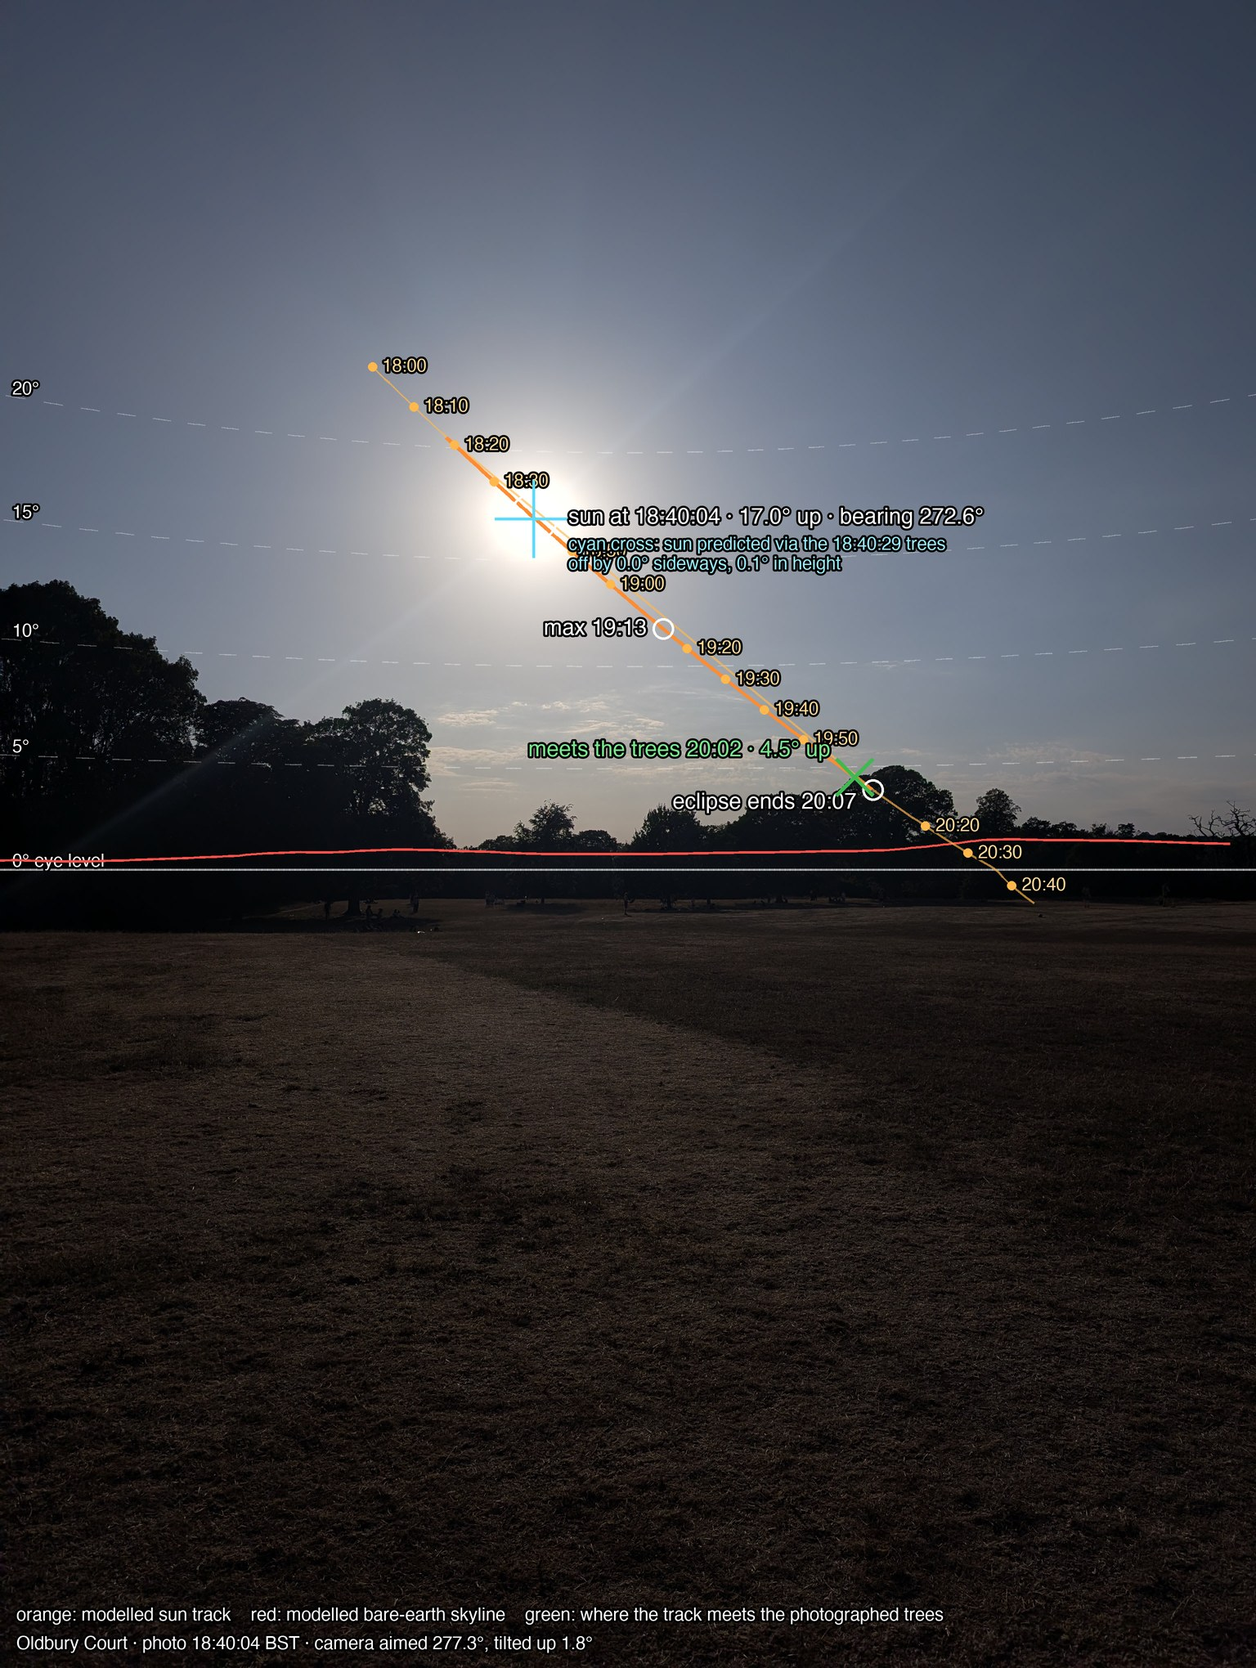
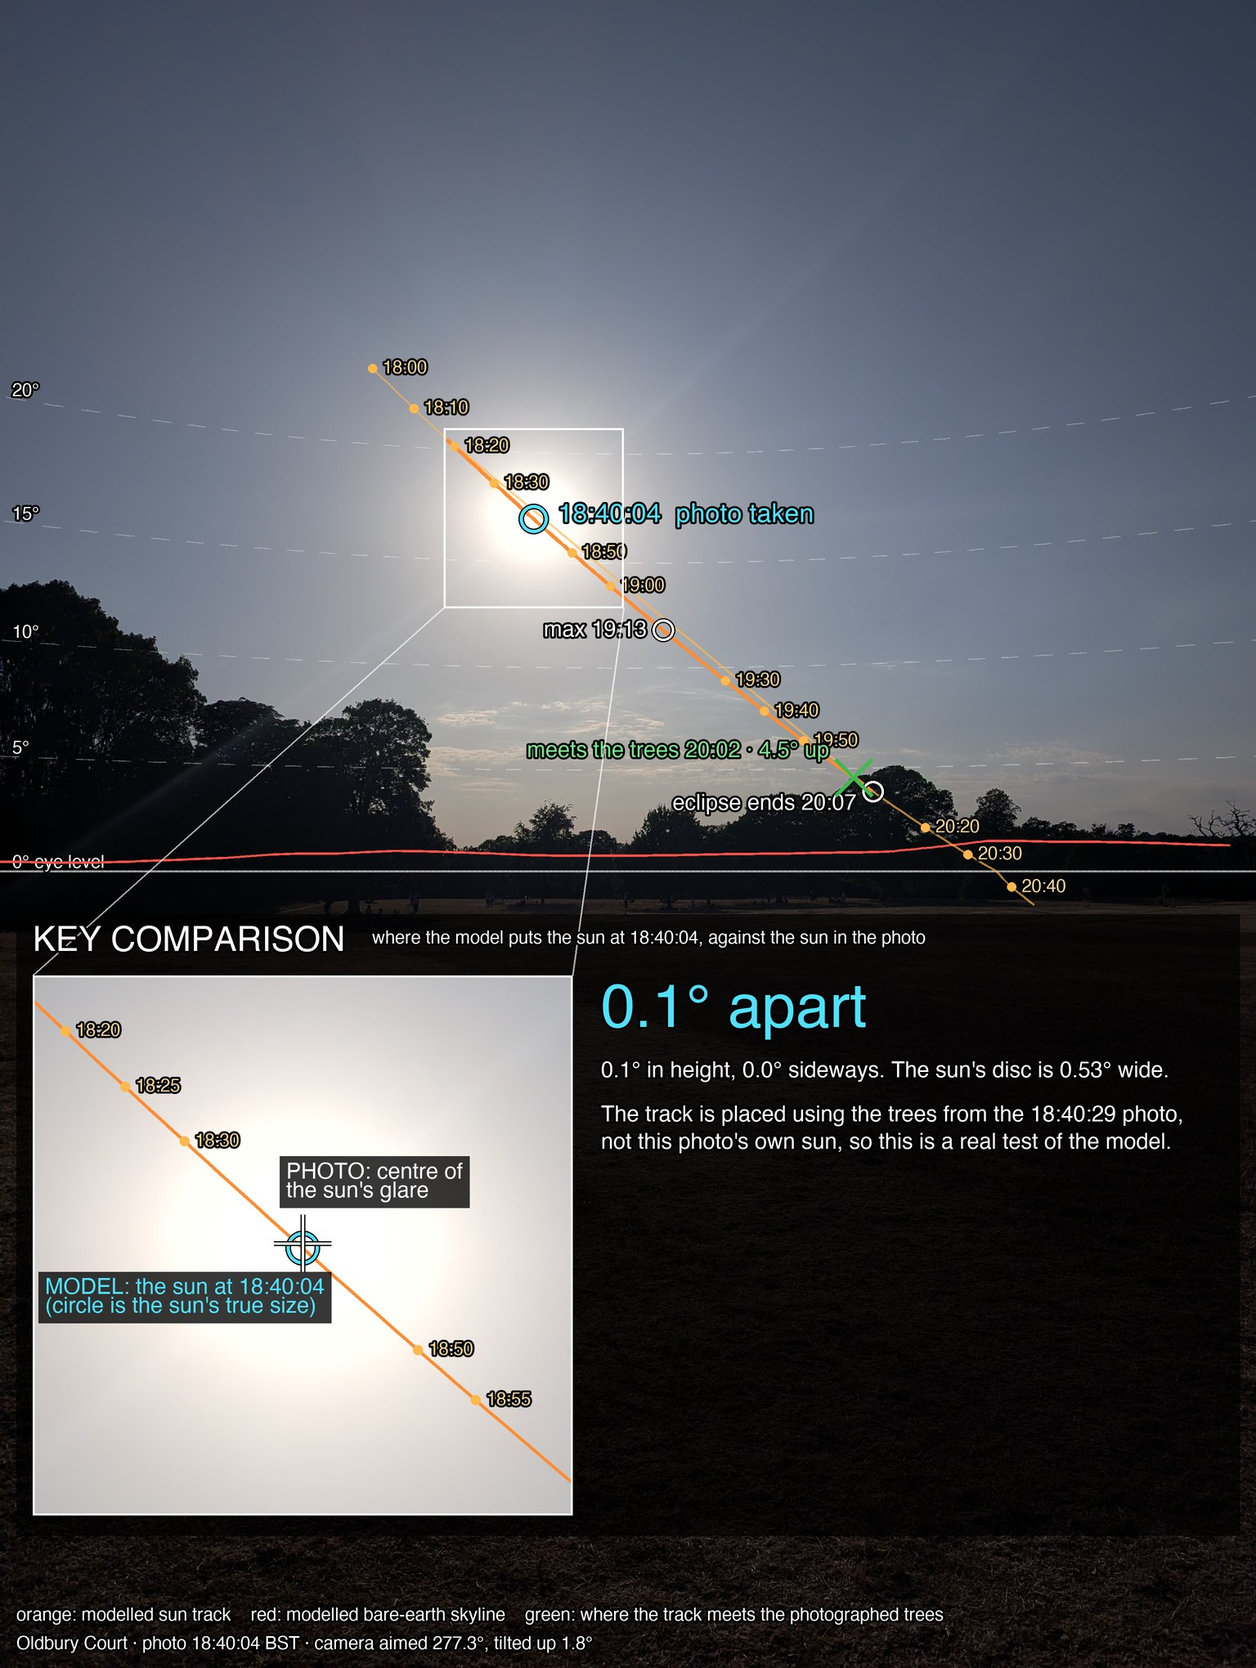
Make model-vs-photo sun position the key comparison in the overlays
Each overlay now marks the photo's time on the track and adds an
enlarged panel showing the model's sun against the sun's glare, with
the gap in degrees. The 18:40:29 photo is the anchor; the other two
are placed by its tree line so their comparison is a real test.
README "On the day" section rewritten to match.

Changed region(s): [[0.0, 0.2162, 1.0, 0.9265], [0.9375, 0.5559, 0.9688, 0.5868], [0.0, 0.2162, 0.0312, 0.2471]]

diff --git a/eclipse-oc/overlay.py b/eclipse-oc/overlay.py
@@ -1,14 +1,14 @@
-"""Draw the model's sun track and terrain skyline over photos taken on the day.
+"""Compare the model's sun position with photos taken on the day.
 
-The camera's direction is not recorded, so each photo is oriented by pinning the
-sun's image to its computed altitude/azimuth at the EXIF timestamp. Everything
-else drawn (altitude lines, sun track, terrain skyline) follows from that.
+The key comparison: mark on the modelled sun track the moment each photo was
+taken, and see how far that is from the sun in the photo.
 
-Pinning makes the sun line up by construction, so the independent check is between
-photos: the 18:40:29 shot is the reference, and the tree line it records is used to
-orient the other shots. Where the model then puts the sun is compared with the glare.
+The camera's direction is not recorded, so one photo has to act as the anchor:
+the 18:40:29 shot is oriented by fitting the model's sun to its glare. The tree
+line it records then orients the other photos, so in those the track is placed
+without reference to their own sun and the comparison is a real test.
 """
-import json, math, os, sys
+import json, math, os
 from datetime import datetime, timedelta
 import numpy as np
 from PIL import Image, ImageDraw, ImageFont, ExifTags
@@ -18,19 +18,22 @@ HERE = os.path.dirname(os.path.abspath(__file__))
 PHOTOS = os.path.join(HERE, '..', 'photos')
 OUT = os.path.join(PHOTOS, 'overlays')
 # roll = camera tilt in degrees (clockwise positive), judged from the far edge of the field
-# moved = taken from a different spot to the reference photo, so nearby trees shift sideways
+# moved = taken from a different spot to the anchor photo, so nearby trees shift sideways
 SHOTS = [('PXL_20260812_174004617.jpg', 'oldbury-court-1840a', 0.0, False),
          ('13b15408-4078-4d34-a309-7ae669ac0c85-1_all_39226.jpg', 'oldbury-court-1840b', 0.0, False),
          ('13b15408-4078-4d34-a309-7ae669ac0c85-1_all_39227.jpg', 'oldbury-court-1900', 0.0, True)]
+ANCHOR = 'oldbury-court-1840b'
 
 DATA = json.load(open(os.path.join(HERE, 'analysis.json')))
 HOR = DATA['hor']
 C1 = datetime(2026,8,12,18,17,6,tzinfo=BST)
 MX = datetime(2026,8,12,19,13,45,tzinfo=BST)
 C4 = datetime(2026,8,12,20,7,18,tzinfo=BST)
+END = datetime(2026,8,12,20,45,tzinfo=BST)
 D2R = math.pi/180
+SUN_DIAM = 0.53                                  # degrees
 FONT = '/System/Library/Fonts/Helvetica.ttc'
-REF = 'oldbury-court-1840b'
+WHITE, CYAN, ORANGE, GREEN, RED = (255,255,255,255), (80,225,255,255), (255,140,50,255), (63,185,80,255), (248,81,73,255)
 
 class Camera:
     """Pinhole camera, principal point at the image centre, oriented by yaw/pitch/roll."""
@@ -51,6 +54,7 @@ class Camera:
         self.pitch = math.asin(n*math.sin(alt*D2R)/math.hypot(Y, 1)) - math.atan2(Y, 1)
         fwd = math.cos(self.pitch) - Y*math.sin(self.pitch)
         self.yaw = az*D2R - math.atan2(X, fwd)
+        return self
 
     def project(self, alt, az):
         a, d = alt*D2R, az*D2R - self.yaw
@@ -127,14 +131,14 @@ def prepare(fname, roll):
     lum = np.asarray(im.convert('L')).astype(float)
     sx, sy = find_sun(lum)
     alt0, az0, _ = sun_altaz(t0)
-    cam = Camera(w, h, f35, roll); cam.pin(sx, sy, alt0, az0)
+    cam = Camera(w, h, f35, roll).pin(sx, sy, alt0, az0)
     trees = tree_line(lum)
     pts = sorted((cam.unproject(x, trees[x])[::-1] for x in range(0, w, 4) if not np.isnan(trees[x])))
     prof = (np.array([p[0] for p in pts]), np.array([p[1] for p in pts]))
-    return dict(im=im, t0=t0, sun=(sx, sy), alt0=alt0, az0=az0, cam=cam, trees=trees, prof=prof)
+    return dict(im=im, t0=t0, f35=f35, roll=roll, sun=(sx, sy), alt0=alt0, az0=az0, cam=cam, trees=trees, prof=prof)
 
 def align(prof, ref, lo=280, hi=303):
-    """Shift (d_az, d_alt) that best lays this photo's tree line over the reference one.
+    """Shift (d_az, d_alt) that best lays this photo's tree line over the anchor's.
     The range stays right of the sun, clear of the flare."""
     g = np.arange(lo, hi, 0.05); r = np.interp(g, *ref); best = None
     for daz in np.arange(-4, 4.01, 0.05):
@@ -144,88 +148,157 @@ def align(prof, ref, lo=280, hi=303):
         if best is None or score < best[0]: best = (score, daz, dalt)
     return best
 
-def run(outname, shot, check, moved):
-    im, t0, (sx, sy), alt0, az0, cam, trees = (shot[k] for k in ('im','t0','sun','alt0','az0','cam','trees'))
-    w, h = im.size
-
-    # where the sun's centre first meets the photographed tree line
-    met, t = None, t0
-    while t <= datetime(2026,8,12,20,45,tzinfo=BST):
+def meets_trees(cam, trees, t0, w):
+    """First time the sun's centre drops to the photographed tree line."""
+    t = t0
+    while t <= END:
         a, z, _ = sun_altaz(t); p = cam.project(a, z)
         if p and 0 <= p[0] < w and not np.isnan(trees[int(p[0])]) and p[1] >= trees[int(p[0])]:
-            met = (t, a, z, p); break
+            return t, a, z, p
         t += timedelta(seconds=15)
 
+def run(outname, shot, check, moved):
+    im, t0, (sx, sy), alt0, az0, trees = (shot[k] for k in ('im','t0','sun','alt0','az0','trees'))
+    w, h = im.size
+    clean = im.copy()
+    own = meets_trees(shot['cam'], trees, t0, w)                # crossing with the photo oriented on its own sun
+    if check:                                                   # orient by the anchor's trees, not this photo's sun
+        _, daz, dalt = check
+        cam = Camera(w, h, shot['f35'], shot['roll']).pin(sx, sy, alt0 + dalt, az0 + daz)
+    else:
+        daz = dalt = 0.0; cam = shot['cam']
+    mx, my = cam.project(alt0, az0)                             # model sun at the moment of the photo
+    side = daz*math.cos(alt0*D2R); gap = math.hypot(side, dalt)
+    met = meets_trees(cam, trees, t0, w)
+
     d = ImageDraw.Draw(im, 'RGBA')
-    f_s, f_m, f_l = (ImageFont.truetype(FONT, s) for s in (44, 54, 66))
-    def text(xy, s, font, fill, anchor='la'):
-        d.text(xy, s, font=font, fill=fill, anchor=anchor, stroke_width=5, stroke_fill=(0,0,0,210))
-    def polyline(pts, fill, width, dash=None):
+    f_s, f_m, f_l, f_xl = (ImageFont.truetype(FONT, s) for s in (44, 54, 64, 84))
+    def text(dr, xy, s, font, fill, anchor='la'):
+        dr.text(xy, s, font=font, fill=fill, anchor=anchor, stroke_width=5, stroke_fill=(0,0,0,220))
+    def polyline(dr, pts, fill, width, dash=None):
         seg = [p for p in pts if p]
         for i in range(len(seg)-1):
             if dash and (i // dash) % 2: continue
-            d.line([seg[i], seg[i+1]], fill=fill, width=width)
+            dr.line([seg[i], seg[i+1]], fill=fill, width=width)
+    def ring(dr, x, y, r, fill, width):
+        dr.ellipse([x-r-3, y-r-3, x+r+3, y+r+3], outline=(0,0,0,255), width=width+6)
+        dr.ellipse([x-r, y-r, x+r, y+r], outline=fill, width=width)
+    def cross(dr, x, y, r, fill, width):
+        for dx, dy in ((1,0),(0,1)):
+            dr.line([x-dx*r, y-dy*r, x+dx*r, y+dy*r], fill=(0,0,0,255), width=width+6)
+            dr.line([x-dx*r, y-dy*r, x+dx*r, y+dy*r], fill=fill, width=width)
 
+    # --- main picture: altitude lines, modelled terrain, sun track ---
     left, right = cam.unproject(0, h*0.45)[1], cam.unproject(w, h*0.45)[1]
     azs = np.arange(left-3, right+3, 0.25)
-    for alt in (0, 5, 10, 15, 20):                              # altitude lines
-        pts = [cam.project(alt, z) for z in azs]
-        polyline(pts, (255,255,255,150 if alt == 0 else 80), 5 if alt == 0 else 3, dash=None if alt == 0 else 3)
+    for alt in (0, 5, 10, 15, 20):
+        polyline(d, [cam.project(alt, z) for z in azs], (255,255,255,150 if alt == 0 else 80), 5 if alt == 0 else 3,
+                 dash=None if alt == 0 else 3)
         p = cam.project(alt, cam.unproject(30, h*0.45)[1])
-        if p: text((30, p[1]-8), f'{alt}°' + (' eye level' if alt == 0 else ''), f_s, (255,255,255,230), 'ls')
-    polyline([cam.project(hor_at(z), z) for z in azs if hor_at(z) is not None], (248,81,73,255), 6)  # model terrain
+        if p: text(d, (30, p[1]-8), f'{alt}°' + (' eye level' if alt == 0 else ''), f_s, (255,255,255,230), 'ls')
+    polyline(d, [cam.project(hor_at(z), z) for z in azs if hor_at(z) is not None], RED, 6)
 
-    track, t = [], datetime(2026,8,12,18,0,tzinfo=BST)          # sun track
-    while t <= datetime(2026,8,12,20,45,tzinfo=BST):
+    track, t = [], datetime(2026,8,12,18,0,tzinfo=BST)
+    while t <= END:
         a, z, _ = sun_altaz(t); track.append((t, cam.project(a, z))); t += timedelta(minutes=1)
-    polyline([p for t, p in track if not C1 <= t <= C4], (255,184,77,170), 5)
-    polyline([p for t, p in track if C1 <= t <= C4], (255,140,50,255), 9)
+    polyline(d, [p for t, p in track if not C1 <= t <= C4], (255,184,77,170), 5)
+    polyline(d, [p for t, p in track if C1 <= t <= C4], ORANGE, 9)
     for t, p in track:
         near = min(abs((t-e).total_seconds()) for e in [t0, MX, C4] + ([met[0]] if met else []))
-        if p and t.minute % 10 == 0 and 0 < p[0] < w and 0 < p[1] < h and near > 360:
+        if p and t.minute % 10 == 0 and 0 < p[0] < w and 0 < p[1] < h and near > 420:
             d.ellipse([p[0]-11, p[1]-11, p[0]+11, p[1]+11], fill=(255,184,77,255))
-            text((p[0]+24, p[1]), t.strftime('%H:%M'), f_s, (255,214,150,255), 'lm')
+            text(d, (p[0]+24, p[1]), t.strftime('%H:%M'), f_s, (255,214,150,255), 'lm')
     for lab, tt in (('max 19:13', MX), ('eclipse ends 20:07', C4)):
         a, z, _ = sun_altaz(tt); p = cam.project(a, z)
         if p and 0 < p[0] < w and 0 < p[1] < h:
-            d.ellipse([p[0]-26, p[1]-26, p[0]+26, p[1]+26], outline=(255,255,255,255), width=6)
-            text((p[0]-40, p[1]+(30 if tt == C4 else 0)), lab, f_m, (255,255,255,255), 'rm')
-    d.ellipse([sx-60, sy-60, sx+60, sy+60], outline=(255,255,255,255), width=6)
-    if check:                                                   # sun as predicted from the reference photo's trees
-        _, daz, dalt = check
-        px, py = cam.project(alt0 - dalt, az0 - daz)
-        for dx, dy in ((1,0),(0,1)):
-            d.line([px-dx*95, py-dy*95, px+dx*95, py+dy*95], fill=(90,220,255,255), width=7)
-        text((sx+85, sy+45), f'cyan cross: sun predicted via the 18:40:29 trees\noff by {abs(daz):.1f}° sideways' +
-             (' (camera had moved a few metres)' if moved else '') + f', {abs(dalt):.1f}° in height',
-             f_s, (150,235,255,255), 'la')
-    else:
-        text((sx+85, sy+45), 'reference photo: the others are\nchecked against this tree line', f_s, (150,235,255,255), 'la')
-    text((sx+85, sy), f'sun at {t0:%H:%M:%S} · {alt0:.1f}° up · bearing {az0:.1f}°', f_m, (255,255,255,255), 'lm')
+            ring(d, p[0], p[1], 26, WHITE, 6)
+            text(d, (p[0]-40, p[1]+(30 if tt == C4 else 0)), lab, f_m, WHITE, 'rm')
     if met:
         t, a, z, p = met
-        d.line([p[0]-45, p[1]-45, p[0]+45, p[1]+45], fill=(63,185,80,255), width=9)
-        d.line([p[0]-45, p[1]+45, p[0]+45, p[1]-45], fill=(63,185,80,255), width=9)
-        text((p[0]-60, p[1]-40), f'meets the trees {t:%H:%M} · {a:.1f}° up', f_m, (120,230,140,255), 'rb')
-    text((40, h-150), 'orange: modelled sun track    red: modelled bare-earth skyline    green: where the track meets the photographed trees',
+        d.line([p[0]-45, p[1]-45, p[0]+45, p[1]+45], fill=GREEN, width=9)
+        d.line([p[0]-45, p[1]+45, p[0]+45, p[1]-45], fill=GREEN, width=9)
+        text(d, (p[0]-60, p[1]-40), f'meets the trees {t:%H:%M} · {a:.1f}° up', f_m, (120,230,140,255), 'rb')
+
+    # --- the key comparison, marked on the track and enlarged below ---
+    ring(d, mx, my, 34, CYAN, 8)
+    text(d, (mx+60, my-10), f'{t0:%H:%M:%S}  photo taken', f_l, CYAN, 'lm')
+    M, crop, side_px = 3, 440, 1320                             # 3x enlargement, about 9° across
+    cx0, cy0 = (mx+sx)/2 - crop/2, (my+sy)/2 - crop/2
+    px0, py0 = 80, int(h*0.585)
+    d.rectangle([40, py0-150, w-40, py0+side_px+50], fill=(0,0,0,175))
+    d.rectangle([cx0, cy0, cx0+crop, cy0+crop], outline=WHITE, width=5)
+    d.line([cx0, cy0+crop, px0, py0], fill=(255,255,255,170), width=4)
+    d.line([cx0+crop, cy0+crop, px0+side_px, py0], fill=(255,255,255,170), width=4)
+    text(d, (px0, py0-125), 'KEY COMPARISON', f_xl, WHITE)
+    text(d, (px0+830, py0-112), f'where the model puts the sun at {t0:%H:%M:%S}, against the sun in the photo', f_s, WHITE)
+
+    inset = clean.crop((int(cx0), int(cy0), int(cx0)+crop, int(cy0)+crop)).resize((side_px, side_px), Image.LANCZOS)
+    di = ImageDraw.Draw(inset, 'RGBA')
+    Z = lambda p: ((p[0]-int(cx0))*M, (p[1]-int(cy0))*M) if p else None
+    polyline(di, [Z(p) for t, p in track], ORANGE, 8)
+    for t, p in track:
+        if p and t.minute % 5 == 0 and abs((t-t0).total_seconds()) > 330:
+            q = Z(p)
+            if 40 < q[0] < side_px-200 and 40 < q[1] < side_px-40:
+                di.ellipse([q[0]-12, q[1]-12, q[0]+12, q[1]+12], fill=(255,184,77,255))
+                text(di, (q[0]+26, q[1]), t.strftime('%H:%M'), f_s, (255,214,150,255), 'lm')
+    qm, qs = Z((mx, my)), Z((sx, sy))
+    if gap > 0.15:
+        di.line([qm, qs], fill=(0,0,0,255), width=10); di.line([qm, qs], fill=WHITE, width=4)
+    ring(di, qm[0], qm[1], SUN_DIAM/2*D2R*cam.F*M, CYAN, 8)     # the sun's disc at true size
+    cross(di, qs[0], qs[1], 70, WHITE, 6)
+    # labels go on the side away from the other marker
+    up = qm[1] <= qs[1]
+    model_lab, photo_lab = f'MODEL: the sun at {t0:%H:%M:%S}\n(circle is the sun\'s true size)', 'PHOTO: centre of\nthe sun\'s glare'
+    def boxed(xy, s, fill, anchor):                             # label on a dark plate, kept inside the inset
+        x0, y0, x1, y1 = di.multiline_textbbox(xy, s, font=f_m, anchor=anchor)
+        dx = max(0, 30 - x0) - max(0, x1 - (side_px - 30))
+        di.rectangle([x0+dx-16, y0-14, x1+dx+16, y1+14], fill=(0,0,0,200))
+        di.multiline_text((xy[0]+dx, xy[1]), s, font=f_m, fill=fill, anchor=anchor)
+    if up:
+        boxed((qm[0]-40, qm[1]-80), model_lab, CYAN, 'ld')
+        boxed((qs[0]+40, qs[1]+100), photo_lab, WHITE, 'ra')
+    else:
+        boxed((qm[0]+40, qm[1]+70), model_lab, CYAN, 'ra')
+        boxed((qs[0]-40, qs[1]-100), photo_lab, WHITE, 'ld')
+    im.paste(inset, (px0, py0)); d.rectangle([px0, py0, px0+side_px, py0+side_px], outline=WHITE, width=5)
+
+    tx, ty = px0 + side_px + 70, py0 + 10
+    def para(s, font, fill, gap_after=40):
+        nonlocal ty
+        line = ''
+        for word in s.split():
+            if d.textlength(line + ' ' + word, font=font) > w - 90 - tx and line:
+                text(d, (tx, ty), line, font, fill); ty += font.size*1.25; line = word
+            else: line = (line + ' ' + word).strip()
+        text(d, (tx, ty), line, font, fill); ty += font.size*1.25 + gap_after
+    if check:
+        para(f'{gap:.1f}° apart', ImageFont.truetype(FONT, 150), CYAN if gap < SUN_DIAM else (255,200,90,255), 10)
+        para(f'{abs(dalt):.1f}° in height, {abs(side):.1f}° sideways. The sun\'s disc is {SUN_DIAM}° wide.', f_m, WHITE)
+        para('The track is placed using the trees from the 18:40:29 photo, not this photo\'s own sun, so this is a real test of the model.', f_m, WHITE)
+        if moved:
+            para('The camera had moved a few metres since 18:40. That shifts the nearby trees sideways and explains the sideways gap; '
+                 'height is the fair test here.', f_m, (255,214,150,255))
+    else:
+        para('Anchor photo', ImageFont.truetype(FONT, 150), WHITE, 10)
+        para('The camera\'s direction is not recorded, so the track is fitted to the sun in this photo. The match here is by construction.', f_m, WHITE)
+        para('The trees in this photo then place the track in the other two photos, where the comparison is a real test.', f_m, WHITE)
+
+    text(d, (40, h-150), 'orange: modelled sun track    red: modelled bare-earth skyline    green: where the track meets the photographed trees',
          f_s, (255,255,255,235))
-    text((40, h-80), f'Oldbury Court · photo {t0:%H:%M:%S} BST · camera aimed {cam.yaw/D2R%360:.1f}°, tilted up {cam.pitch/D2R:.1f}°',
+    text(d, (40, h-80), f'Oldbury Court · photo {t0:%H:%M:%S} BST · camera aimed {cam.yaw/D2R%360:.1f}°, tilted up {cam.pitch/D2R:.1f}°',
          f_s, (255,255,255,235))
 
     os.makedirs(OUT, exist_ok=True)
     im.resize((w//2, h//2), Image.LANCZOS).save(os.path.join(OUT, outname + '.jpg'), quality=88)
 
-    print(f'\n{outname}')
-    if check: print(f'  vs reference trees: d_az {check[1]:+.2f}  d_alt {check[2]:+.2f}  residual {check[0]:.2f}')
-    print(f'  sun pixel ({sx:.0f},{sy:.0f})  model alt {alt0:.2f} az {az0:.2f}  camera yaw {cam.yaw/D2R%360:.1f} pitch {cam.pitch/D2R:.1f}')
+    print(f'\n{outname}  photo {t0:%H:%M:%S}  model alt {alt0:.2f} az {az0:.2f}')
+    if check: print(f'  model vs photo sun: {gap:.2f}° apart  (height {dalt:+.2f}°, sideways {side:+.2f}°)  tree-fit residual {check[0]:.2f}°')
+    else: print('  anchor: track fitted to this photo\'s sun')
     if met: print(f'  sun centre meets trees at {met[0]:%H:%M:%S}  alt {met[1]:.2f}  az {met[2]:.1f}')
-    for z in range(int(left)+2, int(right)-1, 3):
-        p = cam.project(2, z)
-        if p and 0 <= p[0] < w and not np.isnan(trees[int(p[0])]):
-            ta, _ = cam.unproject(p[0], trees[int(p[0])])
-            print(f'    bearing {z:3d}: tree line {ta:5.1f}°   model terrain {hor_at(z) if hor_at(z) is not None else float("nan"):.2f}°')
+    if check and own: print(f'  (oriented on its own sun instead: {own[0]:%H:%M:%S})')
 
 if __name__ == '__main__':
     shots = {name: prepare(fname, roll) for fname, name, roll, moved in SHOTS}
     for fname, name, roll, moved in SHOTS:
-        run(name, shots[name], None if name == REF else align(shots[name]['prof'], shots[REF]['prof']), moved)
+        run(name, shots[name], None if name == ANCHOR else align(shots[name]['prof'], shots[ANCHOR]['prof']), moved)

diff --git a/README.md b/README.md
@@ -45,22 +45,28 @@ Eclipse times for Bristol (BST): begins 18:17, maximum 19:13 (94% magnitude), en
 
 ## On the day
 
-Three phone photos taken at Oldbury Court during the eclipse, with the model drawn over them. The camera's direction isn't recorded, so each photo is oriented by lining the model's sun up with the glare at the photo's timestamp.
+Three phone photos taken at Oldbury Court during the eclipse, with the model drawn over them. The key comparison in each is the cyan circle, where the model puts the sun at the moment the photo was taken, against the sun in the photo.
 
-![Model overlaid on a photo taken at 18:40:29](photos/overlays/oldbury-court-1840b.jpg)
+The camera's direction isn't recorded, so one photo has to act as the anchor: in the 18:40:29 photo the track is fitted to the sun. The trees in that photo then place the track in the other two, so those are real tests.
 
-*18:40:29 BST. Orange is the modelled sun track, red the modelled bare-earth skyline, and the green cross is where the track meets the trees.*
+![Model overlaid on a photo taken at 18:40:04](photos/overlays/oldbury-court-1840a.jpg)
+
+*18:40:04 BST, a real test: the model's sun is 0.1° from the sun in the photo. The sun's disc is 0.53° wide.*
 
 ![Model overlaid on a photo taken at 19:00:06](photos/overlays/oldbury-court-1900.jpg)
 
-*19:00:06 BST, from a few metres away. The cyan cross is where the model puts the sun when this photo is oriented by the trees in the 18:40:29 photo instead.*
+*19:00:06 BST, a real test from a few metres away: 0.5° out in height and 1.4° sideways. Moving shifts the nearby trees sideways, which accounts for the sideways gap.*
+
+![Model overlaid on a photo taken at 18:40:29](photos/overlays/oldbury-court-1840b.jpg)
+
+*18:40:29 BST, the anchor photo: the match here is by construction.*
 
 What the photos show:
 
+- **The sun's height matched the model to about 0.5°** between photos 20 minutes apart, during which the sun dropped 3.1°. Two photos taken 25 seconds apart from the same spot agree to 0.1°.
+- **The sun's bearing couldn't be tested over the 20 minutes.** The 1.4° sideways gap is what moving a few metres does to trees about 150 m away.
 - **Trees, not terrain, were the skyline.** They stand 2–5° up across the sunset arc, against about 1° for the bare-earth model.
 - **The end of the eclipse was probably hidden.** All three photos put the sun's centre reaching the trees at about 20:02, at 4.5° up, five minutes before the eclipse ended at 20:07.
-- **The sun's height matched the model to about 0.5°** between photos 20 minutes apart. Two photos taken 25 seconds apart from the same spot agree to 0.1°.
-- **The sun's bearing couldn't be tested over the 20 minutes.** The 1.4° sideways gap in the second overlay is what moving a few metres does to trees about 150 m away.
 
 The crossing time depends on the lens's field of view, taken as 24 mm equivalent from the photo metadata. At 22 mm it would be about 20:07 and at 26 mm about 19:57.
 
